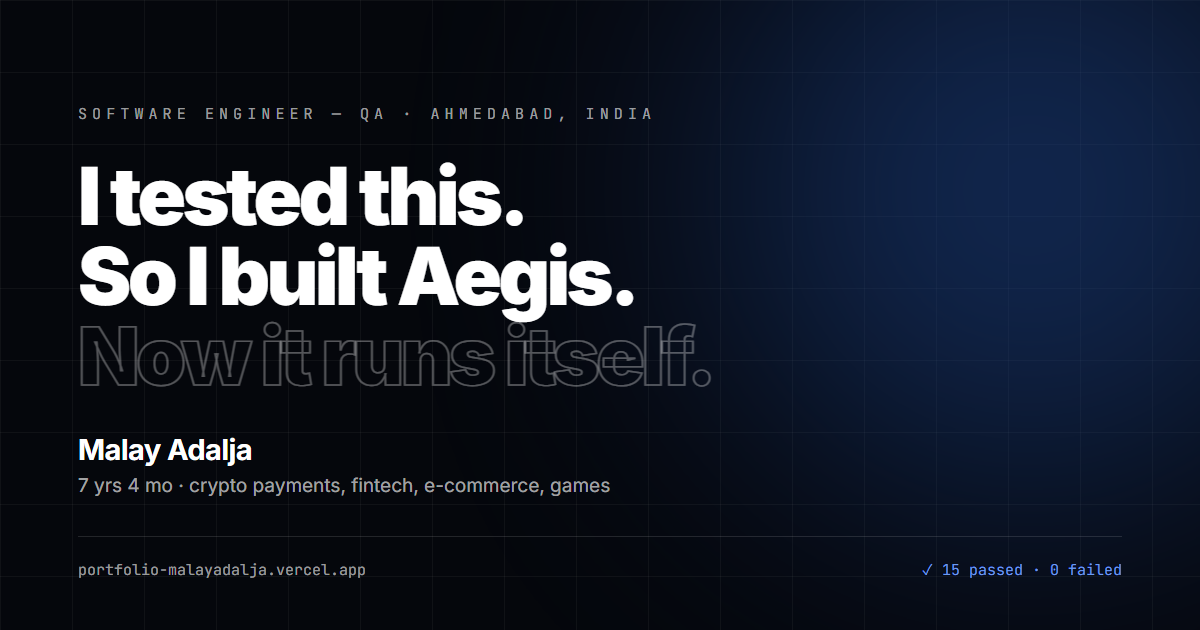
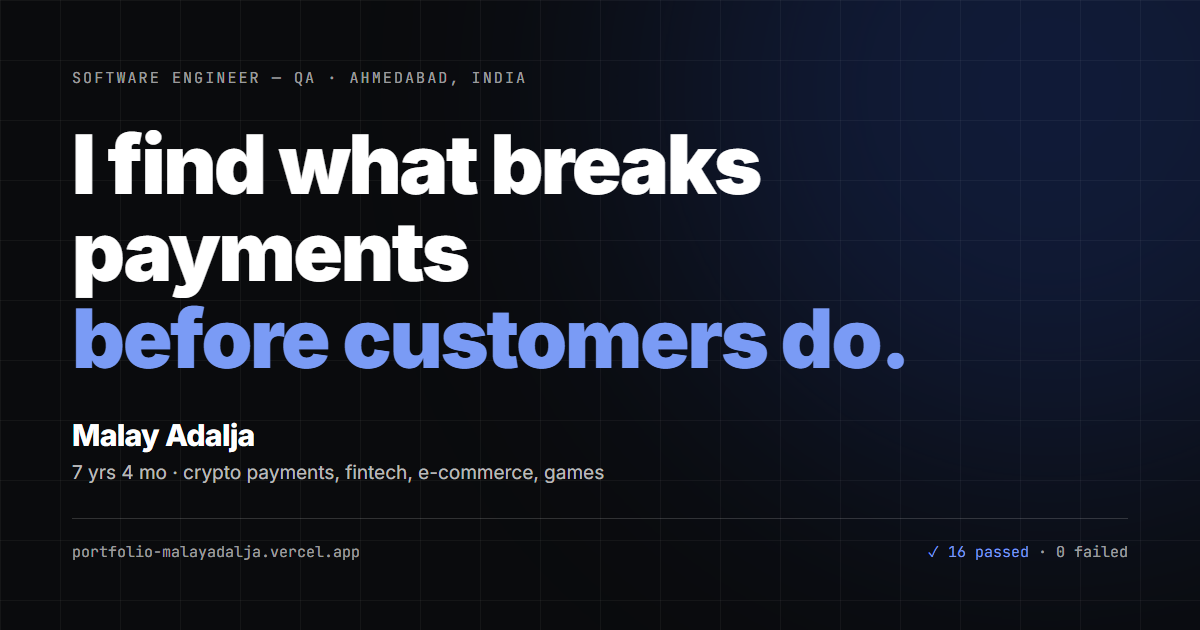
Regenerate the social card, which was still advertising the old site
og.png had not been touched since the first version of this portfolio. It
showed the headline that version used, a typeface treatment removed weeks
ago because Inter's overlapping contours made the outline read as a strike
through the line, and a suite count one assertion out of date.

That image is not a detail. It is what LinkedIn, X, Slack and an AI answer
card display every time the link is shared, and it was contradicting the
page it points at on three separate counts.

It is generated now, from HTML, using the site's own fonts and the same
three colours: scripts/og-card.html rendered to 1200x630 by
scripts/gen-og.py. Generated rather than drawn so it cannot drift again —
when the hero copy or the suite size changes, re-run the script.

Deliberately not wired into `npm run build`. It needs a browser, and a
deploy should not depend on one being installable on the build machine.

diff --git a/scripts/og-card.html b/scripts/og-card.html
@@ -1,0 +1,134 @@
+<!doctype html>
+<html lang="en">
+  <head>
+    <meta charset="UTF-8" />
+    <!--
+      The source for public/og.png, rendered at 1200x630 by scripts/gen-og.mjs.
+
+      It is HTML rather than a design file because the card has to agree with
+      the site, and the only way to guarantee that is to build it from the
+      same fonts, the same three colours and the same words. The card it
+      replaces still carried the headline from the first version of this
+      site, an outlined typeface that was removed, and a suite count that was
+      one assertion out of date — three claims the site no longer made, on
+      the one image every share and every AI answer card displays.
+    -->
+    <style>
+      @font-face {
+        font-family: 'Inter';
+        font-weight: 300 900;
+        src: url('../public/fonts/inter-latin.woff2') format('woff2');
+      }
+      @font-face {
+        font-family: 'JetBrains Mono';
+        font-weight: 400 700;
+        src: url('../public/fonts/jetbrains-mono-latin.woff2') format('woff2');
+      }
+      * {
+        margin: 0;
+        padding: 0;
+        box-sizing: border-box;
+      }
+      body {
+        width: 1200px;
+        height: 630px;
+        background: #0a0b0d;
+        color: #fff;
+        font-family: Inter, sans-serif;
+        -webkit-font-smoothing: antialiased;
+        overflow: hidden;
+        position: relative;
+      }
+      .glow {
+        position: absolute;
+        width: 780px;
+        height: 780px;
+        right: -240px;
+        top: -300px;
+        border-radius: 50%;
+        background: #1e3a8a;
+        opacity: 0.34;
+        filter: blur(150px);
+      }
+      .grid {
+        position: absolute;
+        inset: 0;
+        background-image:
+          linear-gradient(rgba(255, 255, 255, 0.045) 1px, transparent 1px),
+          linear-gradient(90deg, rgba(255, 255, 255, 0.045) 1px, transparent 1px);
+        background-size: 60px 60px;
+      }
+      .pad {
+        position: relative;
+        padding: 68px 72px;
+        height: 100%;
+        display: flex;
+        flex-direction: column;
+        justify-content: space-between;
+      }
+      .eyebrow {
+        font-family: 'JetBrains Mono', monospace;
+        font-size: 15px;
+        letter-spacing: 0.14em;
+        text-transform: uppercase;
+        color: rgba(255, 255, 255, 0.62);
+      }
+      h1 {
+        font-weight: 900;
+        font-size: 82px;
+        line-height: 1.06;
+        letter-spacing: -0.028em;
+      }
+      .accent {
+        color: #7a9bf5;
+      }
+      .name {
+        font-size: 30px;
+        font-weight: 800;
+        letter-spacing: -0.021em;
+      }
+      .sub {
+        margin-top: 8px;
+        font-size: 19px;
+        color: rgba(255, 255, 255, 0.72);
+      }
+      .foot {
+        display: flex;
+        justify-content: space-between;
+        align-items: flex-end;
+        border-top: 1px solid rgba(255, 255, 255, 0.16);
+        padding-top: 22px;
+      }
+      .mono {
+        font-family: 'JetBrains Mono', monospace;
+        font-size: 15px;
+        color: rgba(255, 255, 255, 0.62);
+      }
+      .pass {
+        color: #7a9bf5;
+      }
+    </style>
+  </head>
+  <body>
+    <div class="glow"></div>
+    <div class="grid"></div>
+    <div class="pad">
+      <p class="eyebrow">Software engineer — QA · Ahmedabad, India</p>
+
+      <h1>
+        I find what breaks payments<br />
+        <span class="accent">before customers do.</span>
+      </h1>
+
+      <div>
+        <p class="name">Malay Adalja</p>
+        <p class="sub">7 yrs 4 mo · crypto payments, fintech, e-commerce, games</p>
+      </div>
+
+      <div class="foot">
+        <span class="mono">portfolio-malayadalja.vercel.app</span>
+        <span class="mono"><span class="pass">✓ 16 passed</span> · 0 failed</span>
+      </div>
+    </div>
+  </body>
+</html>

diff --git a/scripts/gen-og.py b/scripts/gen-og.py
@@ -1,0 +1,33 @@
+"""Render scripts/og-card.html to public/og.png at 1200x630.
+
+The card is generated rather than drawn so it cannot drift from the site
+again. The one it replaces still showed the headline from the first version
+of this portfolio, a typeface treatment that has since been removed, and a
+suite count one assertion out of date -- on the single image that every
+share, every social preview and every AI answer card displays.
+
+Not part of `npm run build`: it needs a browser and a deploy should not
+depend on one. Run it by hand when the hero copy or the suite size changes:
+
+    python scripts/gen-og.py
+"""
+
+import pathlib
+import sys
+
+from playwright.sync_api import sync_playwright
+
+HERE = pathlib.Path(__file__).resolve().parent
+CARD = HERE / "og-card.html"
+OUT = HERE.parent / "public" / "og.png"
+
+with sync_playwright() as p:
+    browser = p.chromium.launch()
+    page = browser.new_page(viewport={"width": 1200, "height": 630}, device_scale_factor=1)
+    page.goto(CARD.as_uri(), wait_until="networkidle")
+    page.wait_for_timeout(600)
+    page.screenshot(path=str(OUT))
+    browser.close()
+
+sys.stdout.reconfigure(encoding="utf-8")
+print(f"  og -> public/og.png ({OUT.stat().st_size / 1024:.0f} KB)")
